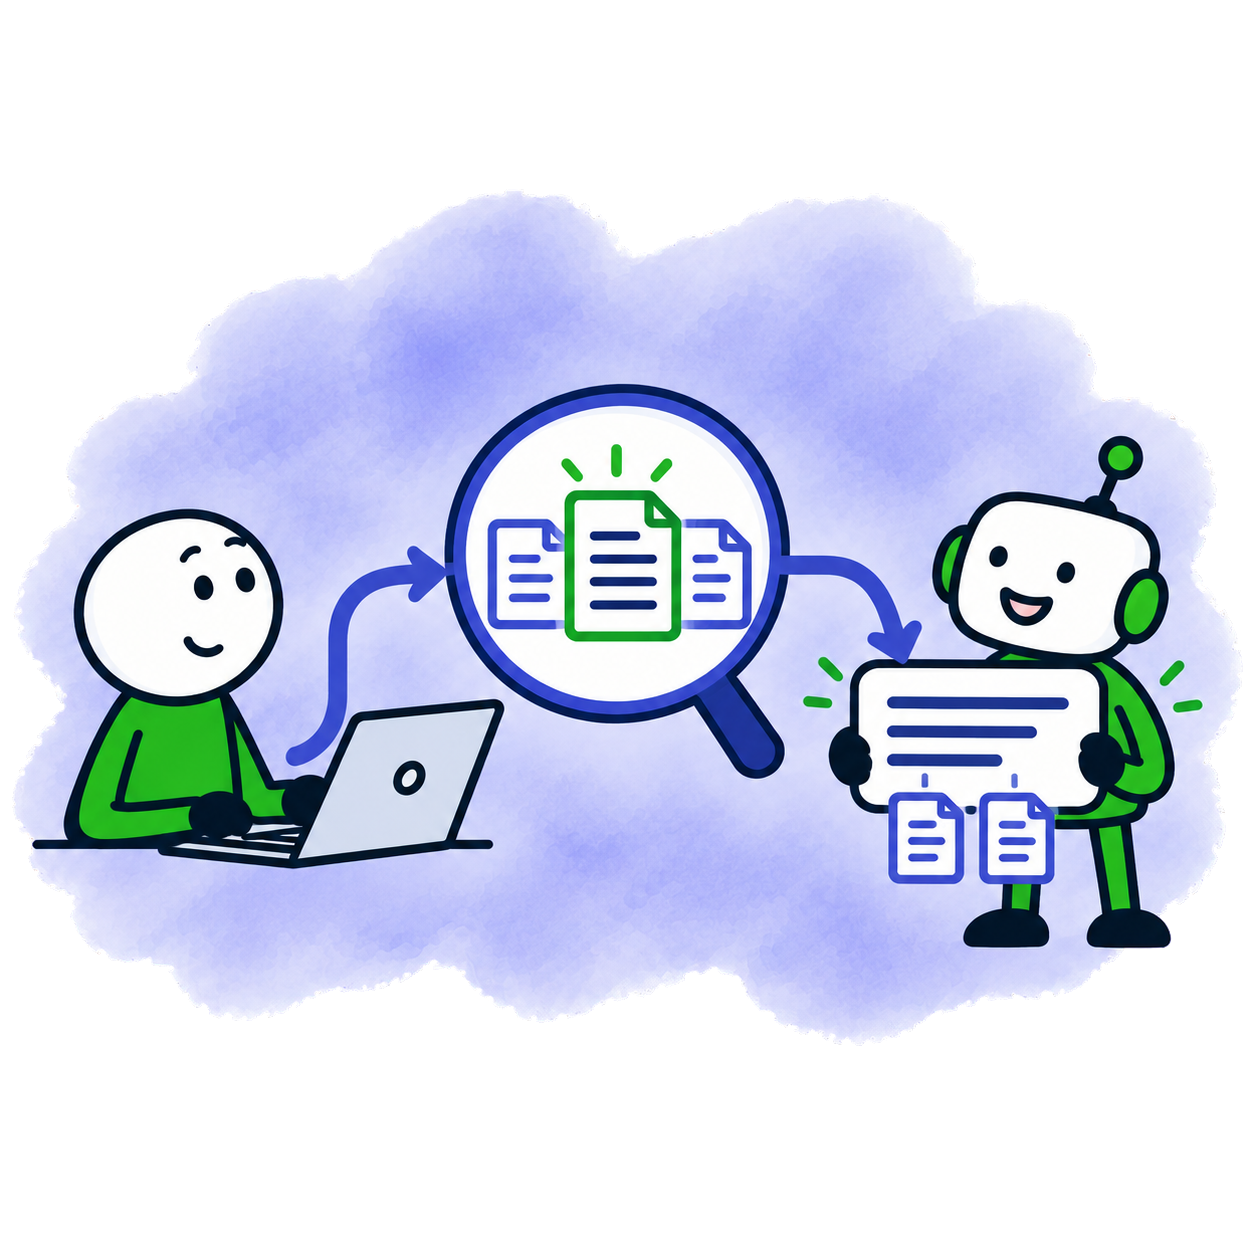
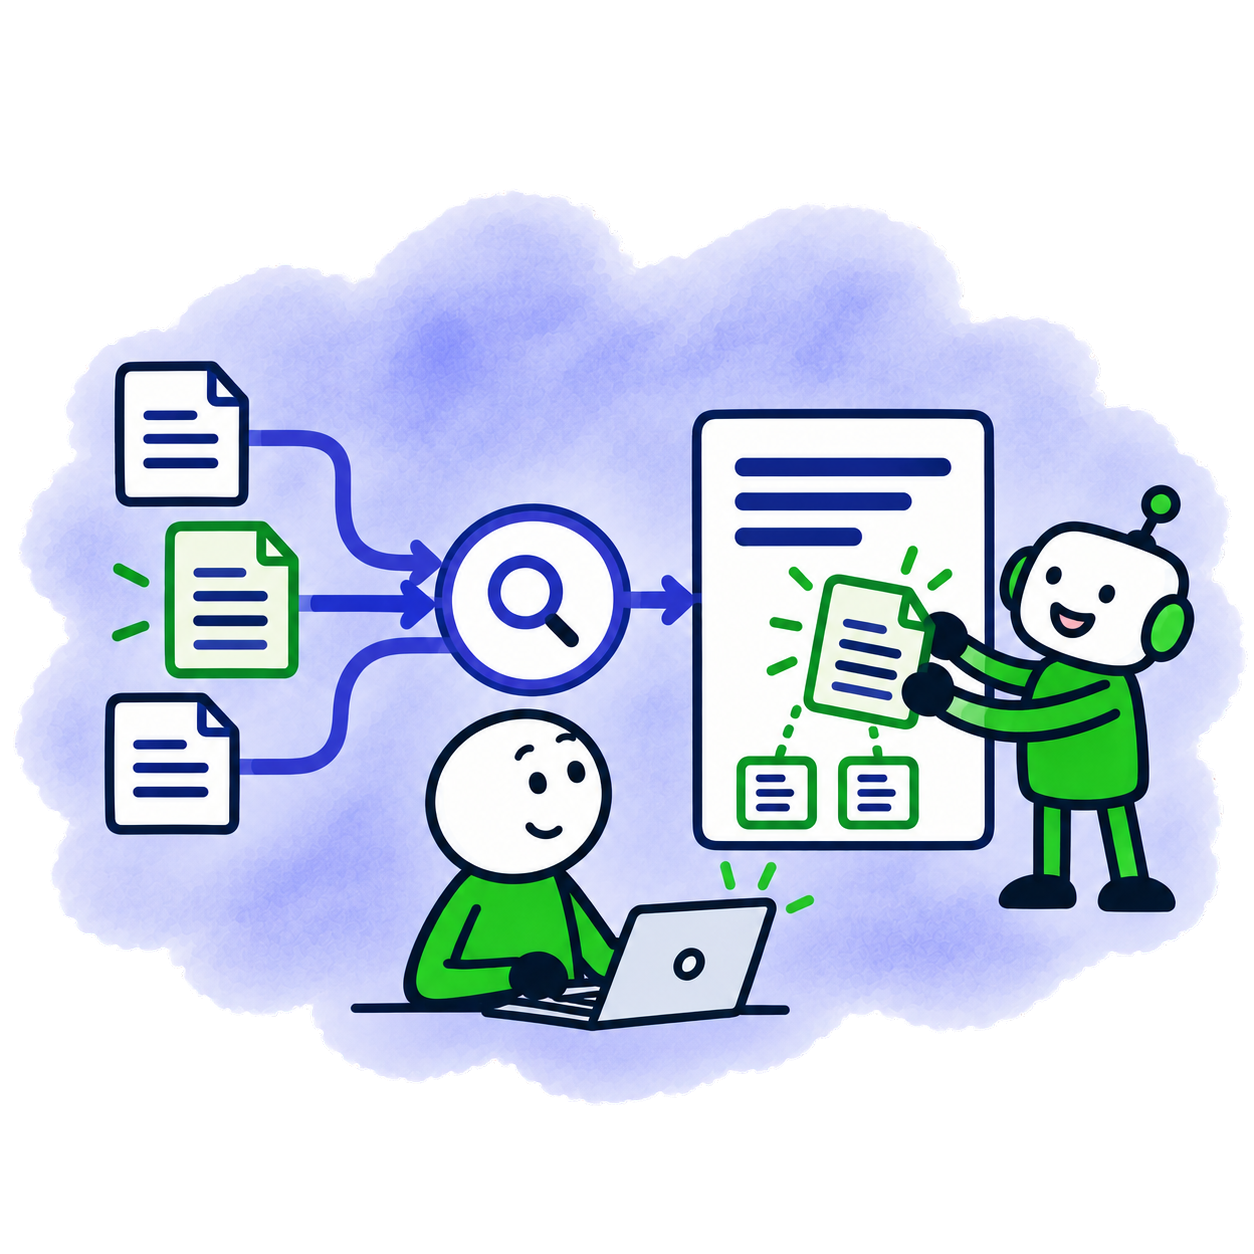
Clarify the LLM course RAG illustration
Refs #401

diff --git a/_docs/design/references/course-variety-revision.md b/_docs/design/references/course-variety-revision.md
@@ -72,6 +72,39 @@ uv run --script .agents/skills/website-illustrations/scripts/finish_chroma.py \
   --solid-key-chroma 210 --key-noise-alpha 0.05
 ```
 
+### RAG-composition replacement
+
+The earlier composition still made retrieval and grounding read as a decorative
+magnifying glass. The replacement uses one continuous source → retrieval → answer
+flow, with the selected source visibly carried into the grounded answer.
+
+- Raw output: `.tmp/course-illustration-variety-20260916/llm-rag-replacement/source-keyed.png`
[1 lines of base64/hex data omitted]
+- Original tool output: `/home/alexey/.codex/generated_images/01a0a479-3d2f-7991-9ca7-bf120c70bac4/exec-125d8f88-6a65-4162-8674-776086d4ec3e.png`
+- Built-in image-generation backend: unverified (the tool exposes no model selector or reliable version metadata)
[2 lines of base64/hex data omitted]
+
+```text
+Use case: illustration-story
+Asset type: LLM Zoomcamp light-theme course hero and course-card illustration.
+Input images: Image 1 is only the current course palette and character reference; replace its composition completely. Image 2 is the approved DataTalks.Club drawing-style and clean watercolor-edge reference; do not copy its scene or cloud silhouette.
+Primary request: Create a new, immediately legible retrieval-augmented generation scene. One seated learner works at a laptop in the lower center. On the viewer-left, a compact source library contains exactly three distinct warm-white document sheets with simple navy paragraph lines. A clear indigo retrieval path with arrowheads selects ONE green-highlighted document from that library and carries it through a small central search/retrieval node into a large answer panel on the viewer-right. The answer panel contains three short abstract navy answer lines and two tiny green source badges visibly linked back to the selected document. One small friendly green-and-indigo robot assistant stands beside the answer panel, placing the retrieved document into the answer flow with both hands. The action must clearly read left-to-right as SOURCES -> RETRIEVAL -> GROUNDED ANSWER even at 300px wide, without written labels.
+Style/medium: friendly hand-drawn editorial watercolor matching the references; confident slightly irregular dark-navy outlines, simple clean opaque warm-white fills, forest green and indigo accents, broad restrained pale-lavender watercolor wash. Clean native image quality.
+Composition/framing: balanced square composition, compact centered silhouette, generous margins. The learner is actively using the laptop rather than pointing or presenting. Keep the documents, central retrieval node, selected-document path, answer panel, robot, and all connections separate and readable. Use chunky simple shapes, not a technical diagram crowded with tiny details.
+Scene/backdrop: Return the complete illustration with its own distinct irregular lavender watercolor blurb on a perfectly uniform opaque saturated #ff00ff exterior chroma backdrop reaching all four borders. No transparency simulation, checkerboard, white rectangle, gradient, or texture outside the artwork.
+Constraints: exactly one learner, one laptop, one small robot, three source documents, one selected document, one retrieval node, and one answer panel. The robot has exactly two visibly connected arms and two simple hands. No pointing pose, magnifying glass, floating detached wires, book-reading pose, presentation board, code blocks, readable words, letters, numbers, logos, brand marks, or watermark. No compression blocks, JPEG noise, ringing, grain, speckles, cellular facets, polygon networks, mottled foreground fills, malformed hands, extra limbs, halos, or magenta inside the artwork.
+```
+
+Finishing command:
+
+```sh
+uv run --script .agents/skills/website-illustrations/scripts/finish_chroma.py \
+  .tmp/course-illustration-variety-20260916/llm-rag-replacement/source-keyed.png \
+  .tmp/course-illustration-variety-20260916/llm-rag-replacement/final \
+  --solid-key-chroma 230 --key-noise-alpha 0.05
+```
+
 ## Stock Market Analytics Zoomcamp
 
 - Raw output: `.tmp/course-illustration-variety-20260915/raw/sma.png`
